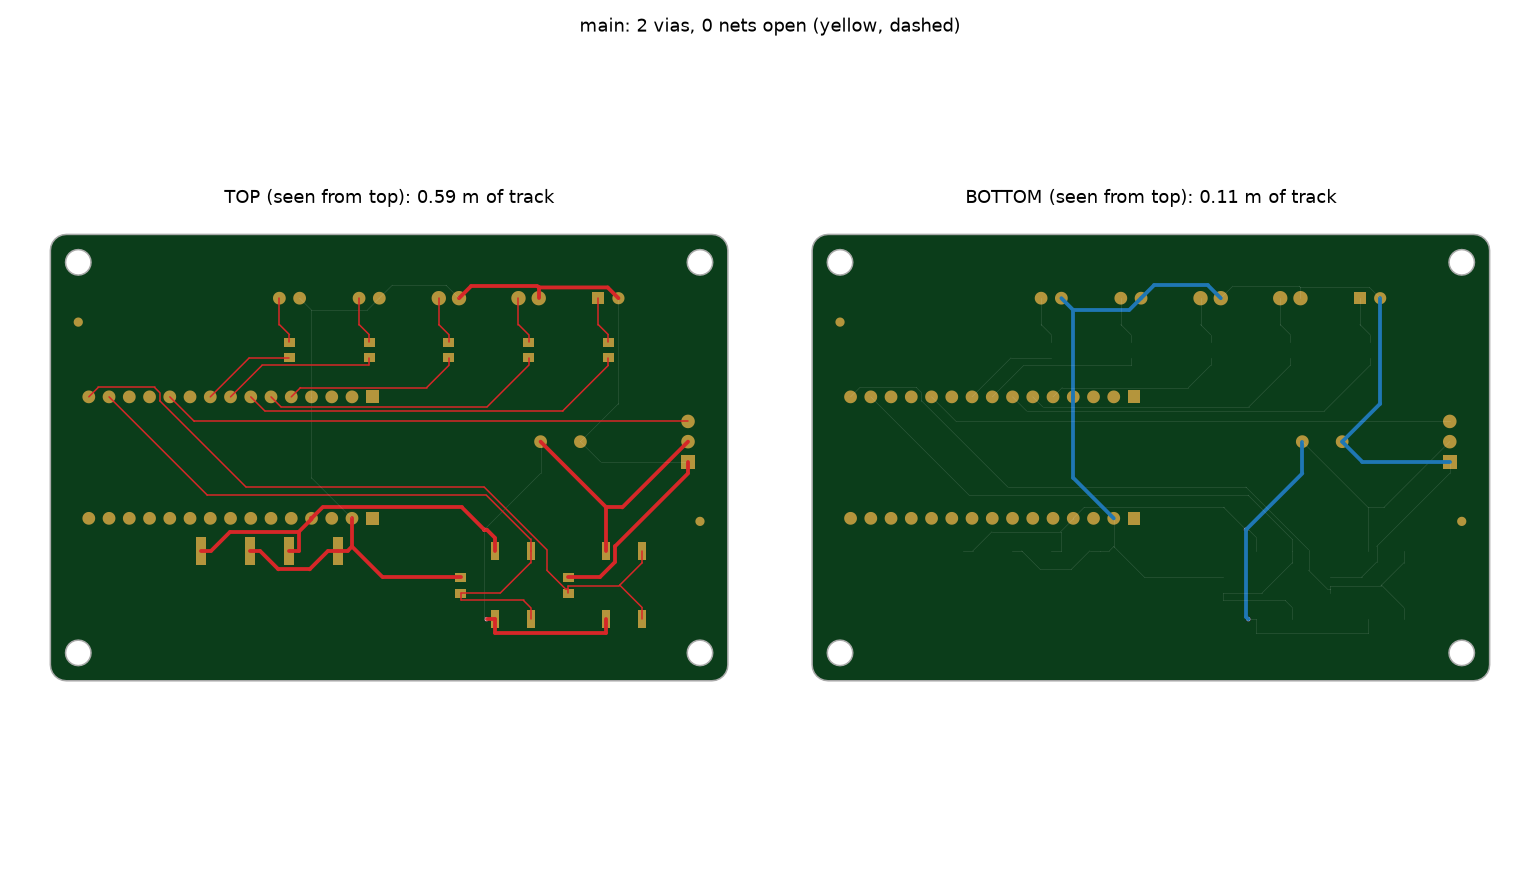
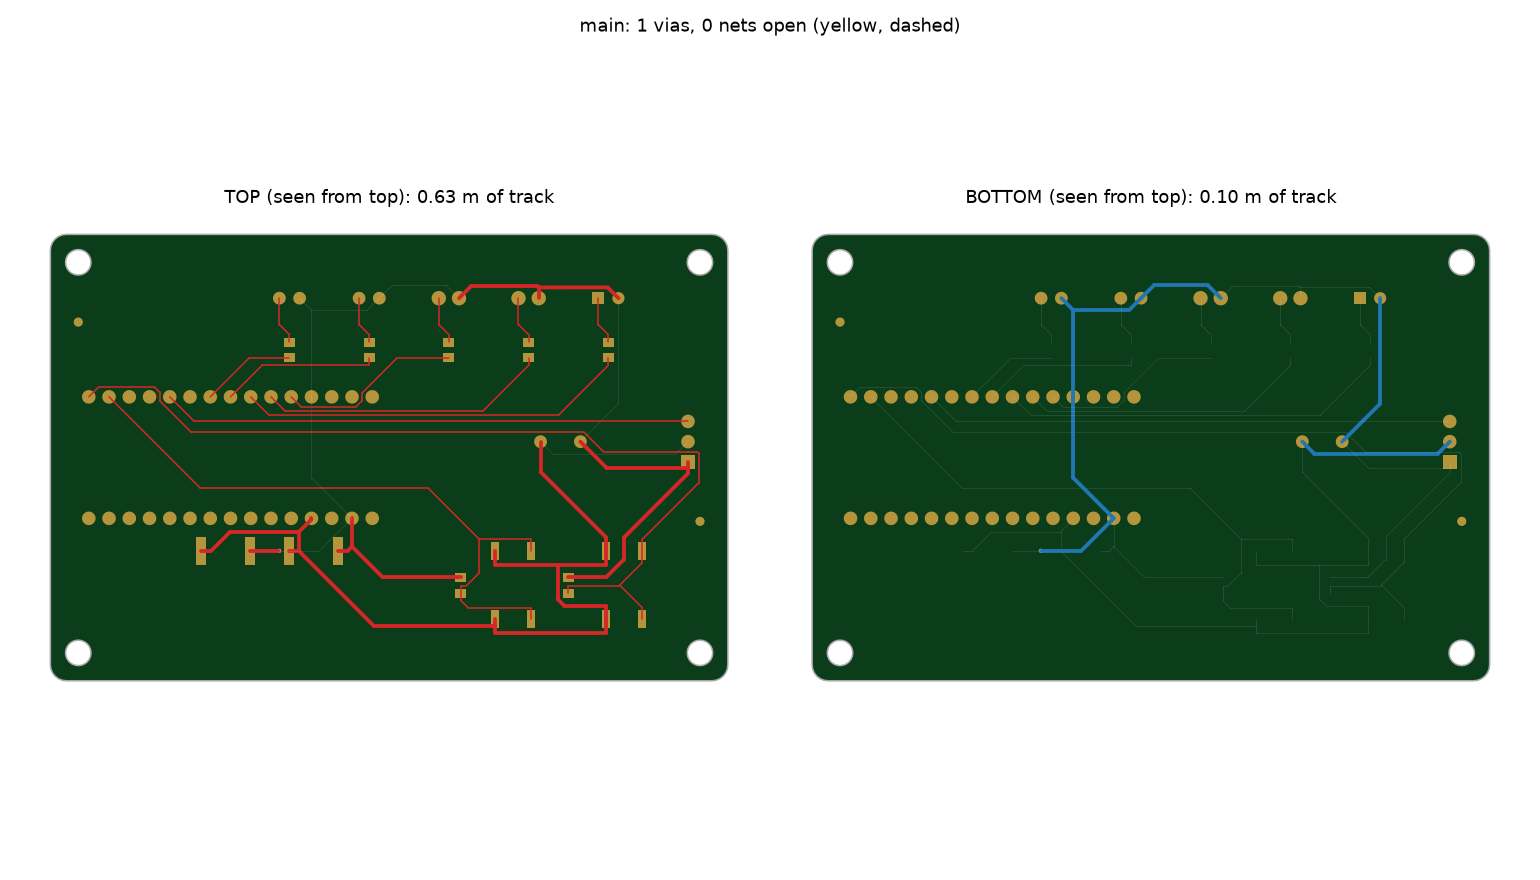
D-7: Nano footprint with 1.1 mm holes; gate without findings
U1 uses the footprint of C9900187880 (1.1 mm holes, same pad numbering,
turned by 270° in the plan); its symbol labels pins 14/15 swapped (PB4/PB3)
- documented, connections by pin number. Text fixes and datasheet entries
of J1 and C1 from the M-1 review. Gate 20261025-215346: no check fails,
M-1 and M-5 open for the new state.

diff --git a/docs/decisions.md b/docs/decisions.md
@@ -46,14 +46,13 @@ C439782, 18 720 pcs at LCSC.
 
 The same header (XFCN PZ254V-11-03P), but C492402 has 0 pcs in stock, C2937625 has 659 300.
 
-## D-7 Holes for the Nano's female headers (2026-10-25, open)
+## D-7 Nano footprint with 1.1 mm holes (2026-10-25)
 
-The gate fails L-9: the Nano footprint from the EasyEDA user library (C9900017879) has 0.90 mm holes. A female header
-with the usual 0.64 mm square tail needs 0.91 mm across the diagonal; 1.0 mm is recommended. Options:
-
-1. Another Nano footprint with 1.0 mm holes (EasyEDA has two more in user libraries) – the next EasyEDA session.
-2. A female header whose datasheet gives a thinner tail (e.g. 0.6 mm square, 0.85 mm diagonal) – enter it as the lead
-   size and buy exactly that one.
+The first Nano footprint (user library, C9900017879) had 0.90 mm holes – too small for the usual 0.64 mm square tails
+of the female headers (0.91 mm across the diagonal; gate check L-9 failed). U1 now uses the footprint of C9900187880
+(COMM-TH_L43.2-W17.8-P2.54_ATMEGA328P): 1.1 mm holes, 1.7 mm pads, the same pad numbering (checked after placing:
+pad 14 = D11, pad 15 = D12 at the end of the row). Its symbol names the pins after the ATmega ports and labels pins
+14/15 the wrong way round (PB4/PB3); only the labels are swapped, the connections go by pin number.
 
 ## D-8 Base load for USB power banks (2026-10-25)
 
